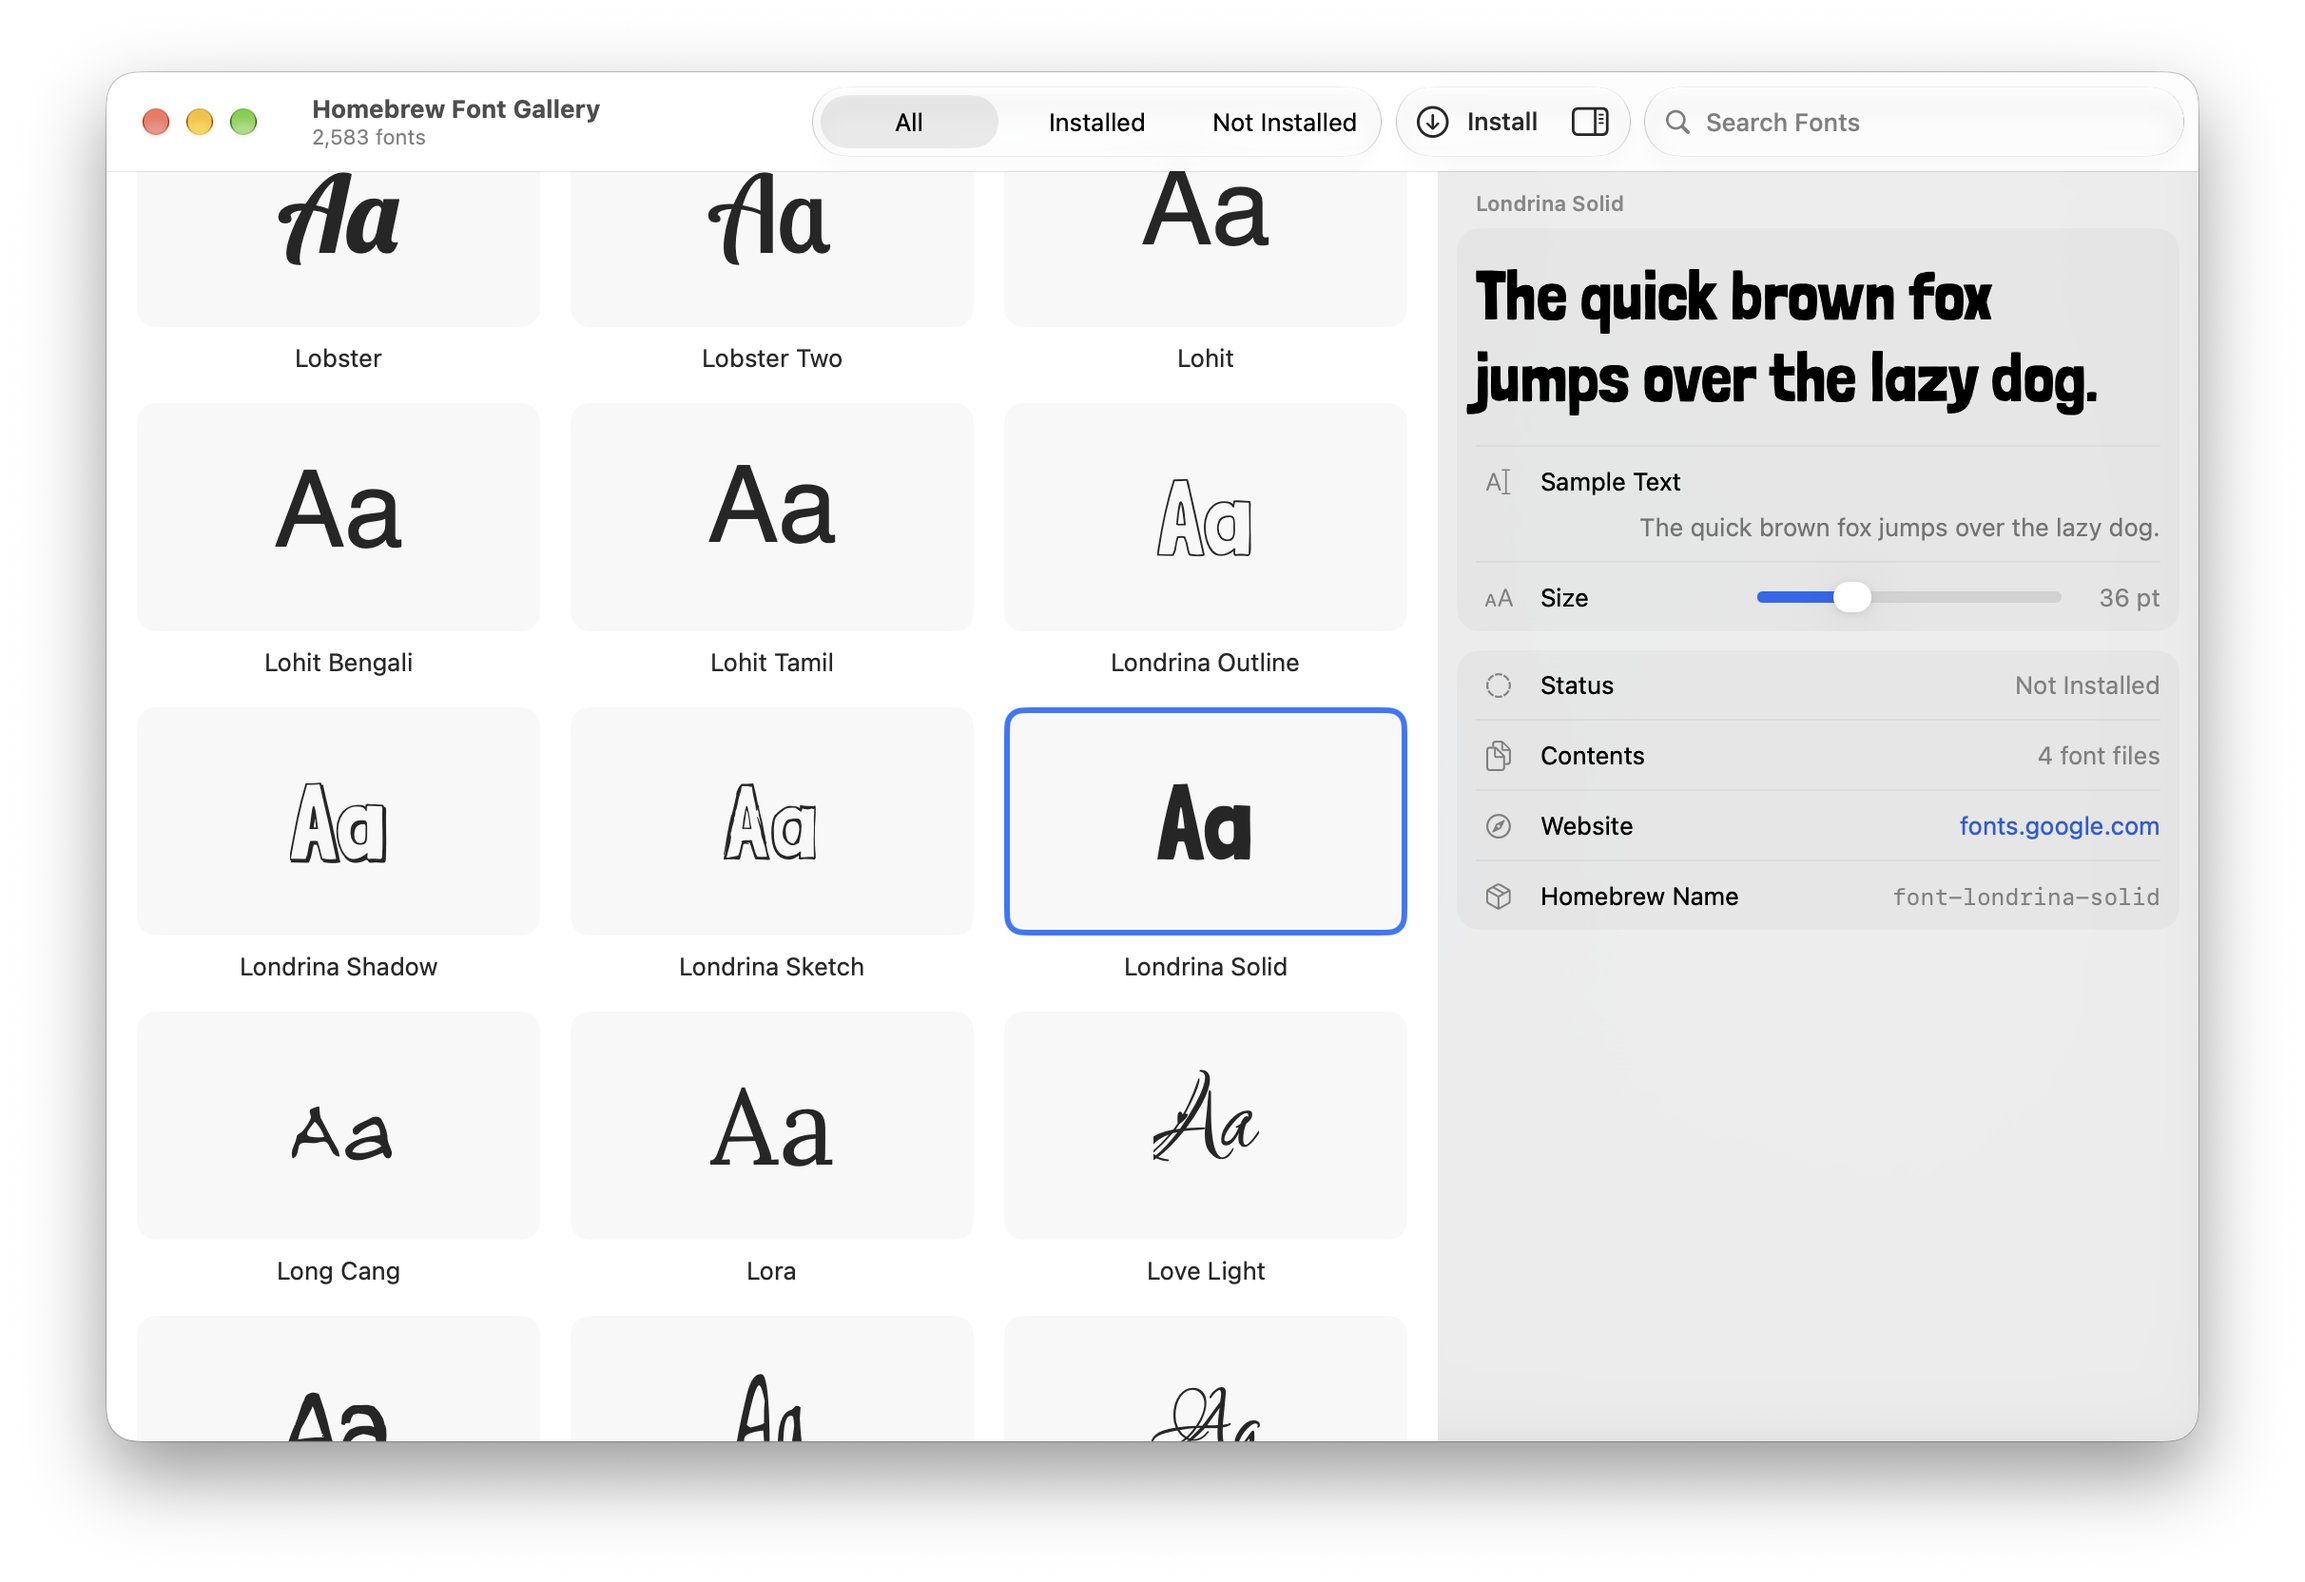
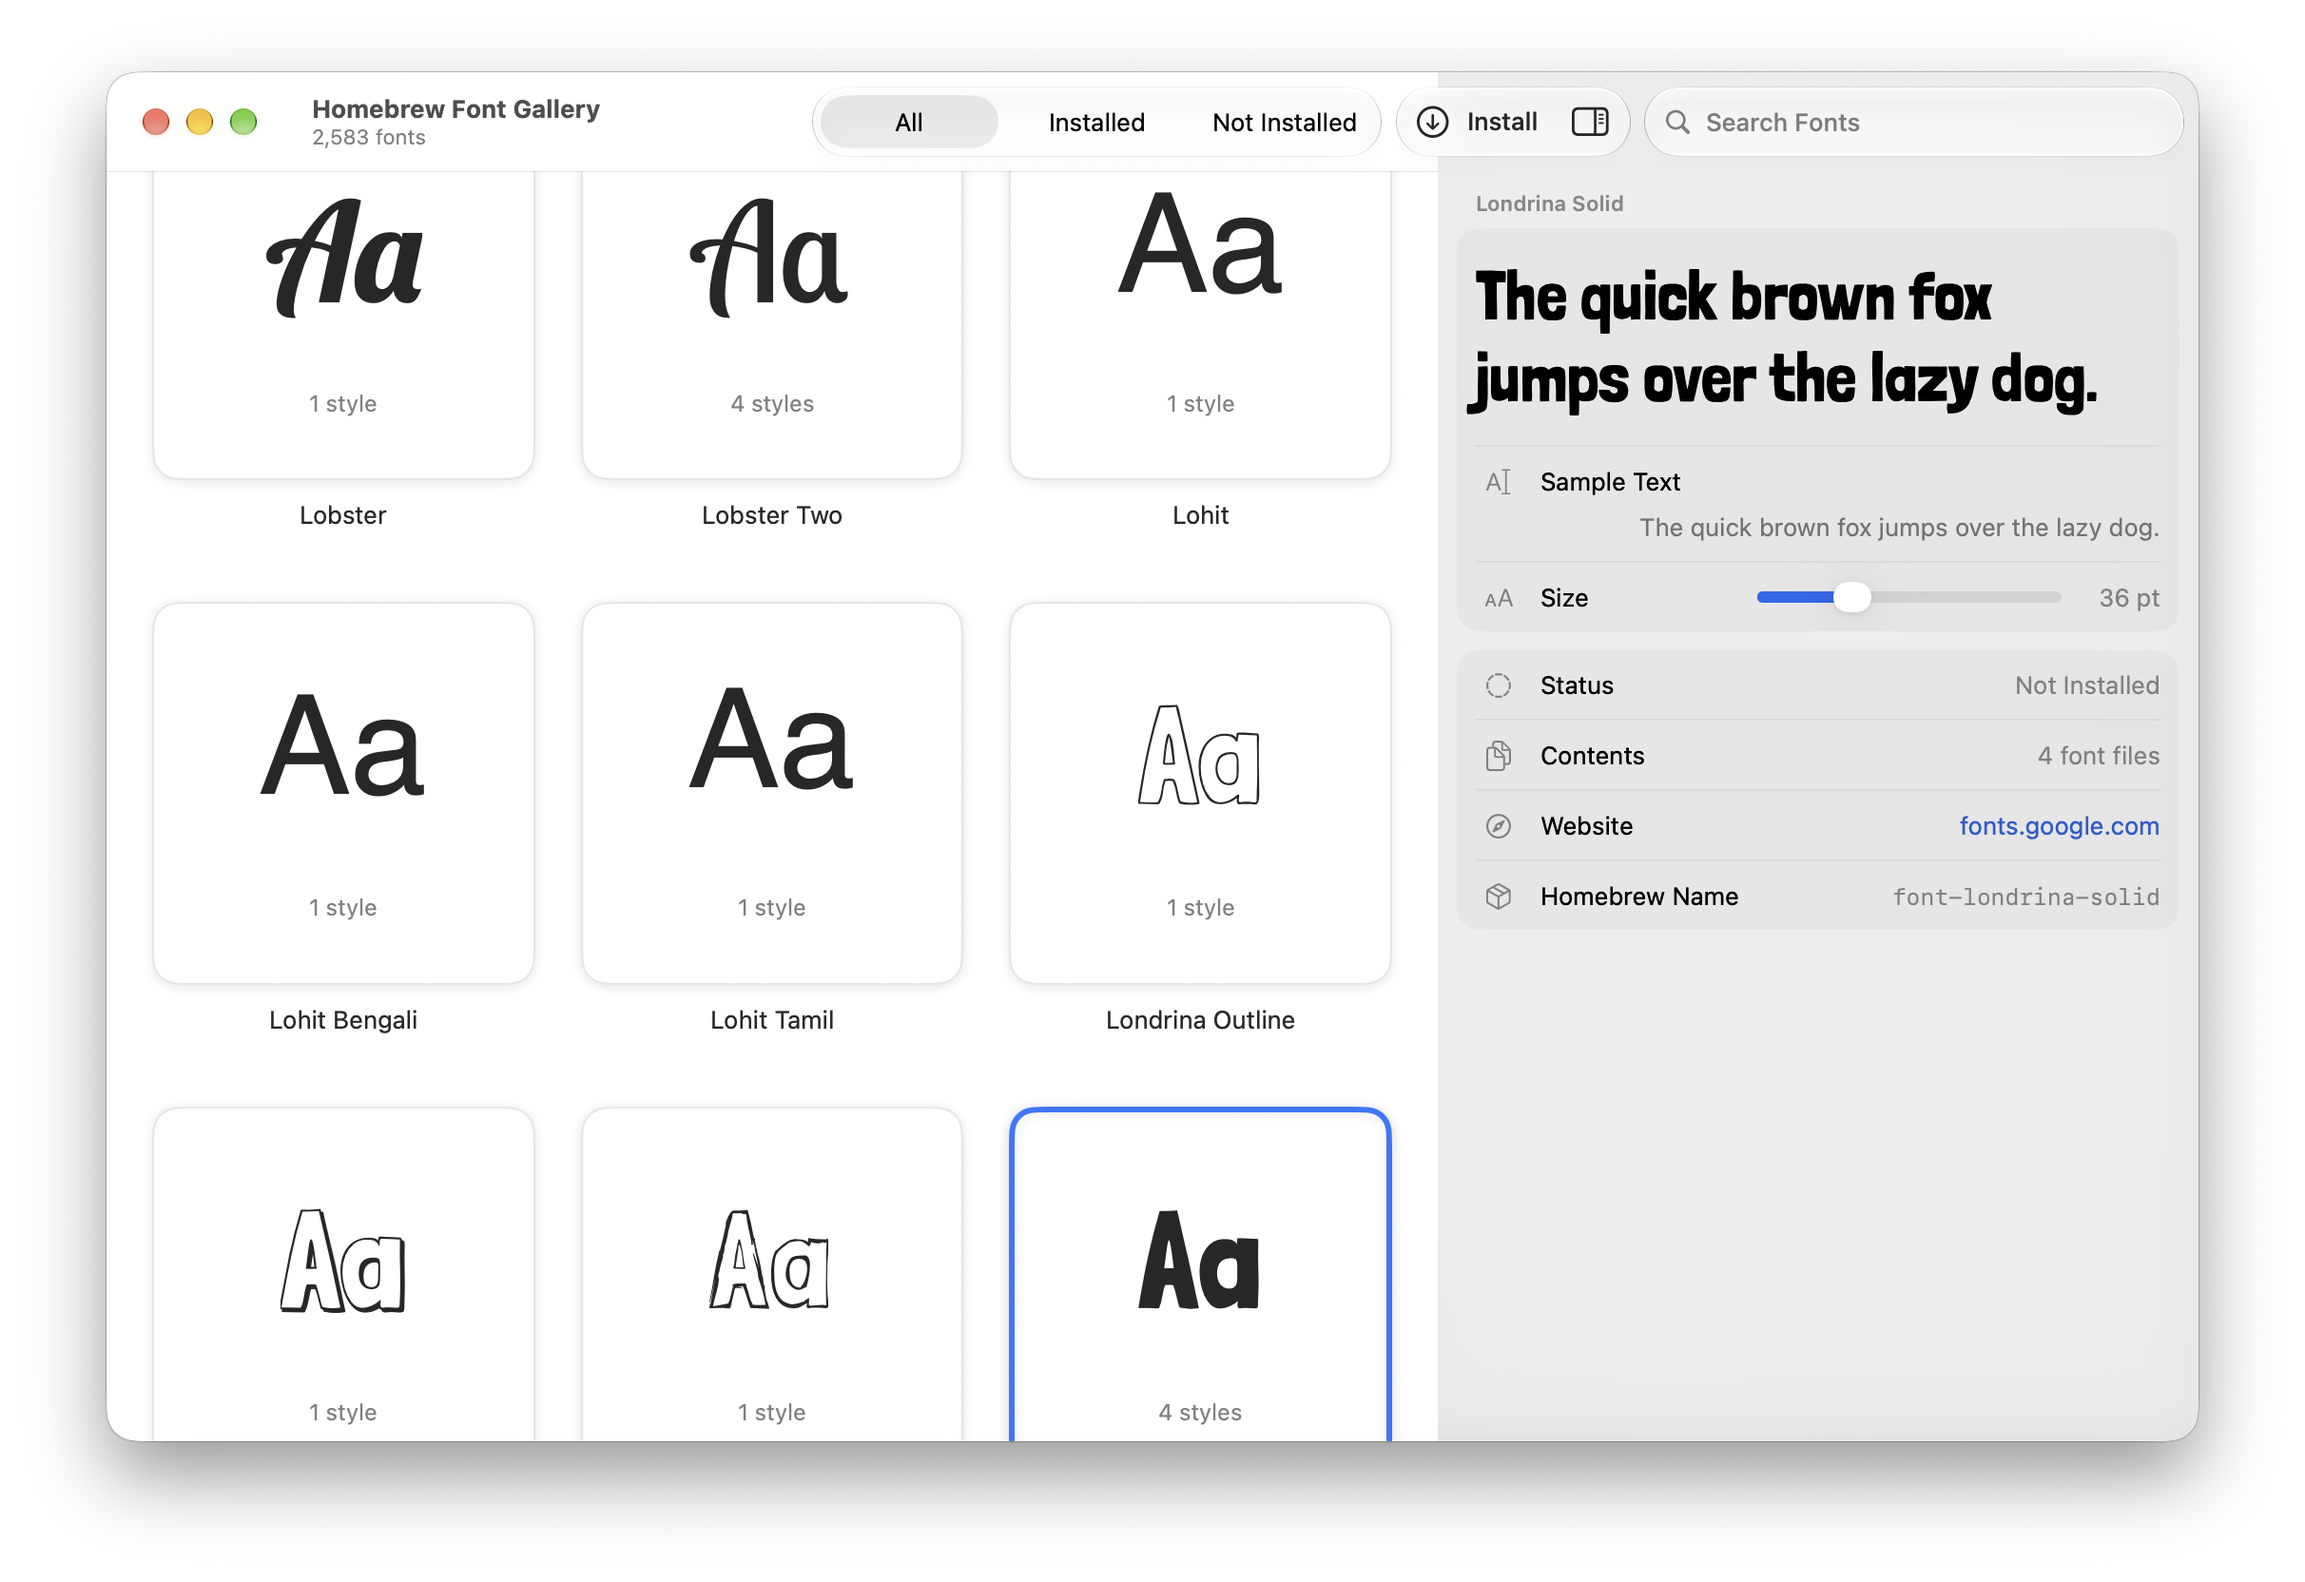
Style the grid's thumbnails as cards, like Font Book
Each font is a square white card with the sample in the middle and the
number of styles along the bottom, and its name below. Cards keep to a
set width, so the grid shows three across beside the details pane and
more when there is room.

diff --git a/HomebrewFontGallery/FontThumbnailView.swift b/HomebrewFontGallery/FontThumbnailView.swift
@@ -10,7 +10,59 @@ struct FontThumbnailView: View {
     @State private var isLoading = true
 
     private static let sample = "Aa"
-    private static let shape = RoundedRectangle(cornerRadius: 10, style: .continuous)
+    private static let shape = RoundedRectangle(cornerRadius: 14, style: .continuous)
+
+    /// A white card with the sample in the middle and the number of styles along the bottom.
+    private var card: some View {
+        GeometryReader { geometry in
+            let side = geometry.size.width
+            ZStack {
+                if let face {
+                    Text(Self.sample)
+                        .font(Font(face.font(size: side * 0.36)))
+                        .lineLimit(1)
+                        .minimumScaleFactor(0.4)
+                        .padding(.horizontal, side * 0.08)
+                } else if isLoading {
+                    ProgressView()
+                        .controlSize(.small)
+                } else {
+                    Image(systemName: "eye.slash")
+                        .font(.system(size: side * 0.18))
+                        .foregroundStyle(.tertiary)
+                        .help("Install this font to preview it.")
+                }
+            }
+            .frame(width: side, height: side * 0.8)
+
+            if let styleCount {
+                Text(styleCount)
+                    .font(.callout)
+                    .foregroundStyle(.secondary)
+                    .lineLimit(1)
+                    .frame(width: side, height: side * 0.2, alignment: .top)
+                    .offset(y: side * 0.76)
+            }
+        }
+        .background(Color(nsColor: .controlBackgroundColor), in: Self.shape)
+        .clipShape(Self.shape)
+        .overlay {
+            if isSelected {
+                Self.shape.strokeBorder(Color.accentColor, lineWidth: 3)
+            } else {
+                Self.shape.strokeBorder(.separator)
+            }
+        }
+        .shadow(color: Color(nsColor: .shadowColor).opacity(0.1), radius: 3, y: 1)
+    }
+
+    private var styleCount: String? {
+        switch font.fontFiles.count {
+        case 0: return nil
+        case 1: return "1 style"
+        default: return "\(font.fontFiles.count) styles"
+        }
+    }
 
     private struct Key: Equatable {
         let token: String
@@ -18,37 +70,14 @@ struct FontThumbnailView: View {
     }
 
     var body: some View {
-        VStack(spacing: 8) {
-            ZStack {
-                Self.shape.fill(.fill.quaternary)
-                if let face {
-                    Text(Self.sample)
-                        .font(Font(face.font(size: 56)))
-                        .lineLimit(1)
-                        .minimumScaleFactor(0.4)
-                        .padding(.horizontal, 12)
-                } else if isLoading {
-                    ProgressView()
-                        .controlSize(.small)
-                } else {
-                    Image(systemName: "eye.slash")
-                        .font(.title)
-                        .foregroundStyle(.tertiary)
-                        .help("Install this font to preview it.")
-                }
-            }
-            .frame(height: 120)
-            .clipShape(Self.shape)
-            .overlay {
-                if isSelected {
-                    Self.shape.strokeBorder(Color.accentColor, lineWidth: 3)
-                }
-            }
+        VStack(spacing: 10) {
+            card
+                .aspectRatio(1, contentMode: .fit)
 
-            HStack(spacing: 4) {
+            HStack(alignment: .firstTextBaseline, spacing: 4) {
                 Text(font.name)
-                    .lineLimit(1)
-                    .truncationMode(.tail)
+                    .multilineTextAlignment(.center)
+                    .lineLimit(2)
                 if isBusy {
                     ProgressView()
                         .controlSize(.mini)
@@ -59,6 +88,8 @@ struct FontThumbnailView: View {
                 }
             }
             .padding(.horizontal, 4)
+            // Room for two lines, so every row of cards lines up.
+            .frame(minHeight: 34, alignment: .top)
         }
         .contentShape(Rectangle())
         .task(id: Key(token: font.token, installedVersion: font.installedVersion)) {

diff --git a/HomebrewFontGallery/ContentView.swift b/HomebrewFontGallery/ContentView.swift
@@ -5,6 +5,7 @@ struct ContentView: View {
     @State private var confirmingUninstall: FontCask?
     @State private var confirmingCancel = false
     @State private var detailsHidden = false
+    @State private var columnCount = 3
     /// The font that was selected when the app was last used.
     @AppStorage("selectedFont") private var lastSelection = ""
 
@@ -128,13 +129,21 @@ struct ContentView: View {
 
     // MARK: Grid
 
-    private static let columnCount = 3
+    /// Cards keep to this width, so there are three across beside the details pane in a
+    /// window of the default size, and more when the window is wider or the pane is hidden.
+    private static let cardWidth: ClosedRange<CGFloat> = 170...230
+    private static let cardSpacing: CGFloat = 24
+
+    /// How many cards an adaptive grid fits across the given width.
+    static func columnCount(forWidth width: CGFloat) -> Int {
+        max(1, Int((width + cardSpacing) / (cardWidth.lowerBound + cardSpacing)))
+    }
 
     private var grid: some View {
         let fonts = model.visibleFonts
         return ScrollViewReader { proxy in
             ScrollView {
-                LazyVGrid(columns: Array(repeating: GridItem(.flexible(), spacing: 16), count: Self.columnCount), spacing: 16) {
+                LazyVGrid(columns: [GridItem(.adaptive(minimum: Self.cardWidth.lowerBound, maximum: Self.cardWidth.upperBound), spacing: 24)], spacing: 20) {
                     ForEach(fonts) { font in
                         Button {
                             model.selection = font.token
@@ -149,7 +158,14 @@ struct ContentView: View {
                         .id(font.token)
                     }
                 }
-                .padding()
+                .padding(24)
+                .background {
+                    GeometryReader { geometry in
+                        Color.clear.onChange(of: geometry.size.width, initial: true) { _, width in
+                            columnCount = Self.columnCount(forWidth: width - 48)
+                        }
+                    }
+                }
             }
             .focusable()
             .focusEffectDisabled()
@@ -162,7 +178,13 @@ struct ContentView: View {
             .onAppear {
                 // Bring the restored selection into view once the grid has its thumbnails.
                 guard let selection = model.selection ?? (lastSelection.isEmpty ? nil : lastSelection) else { return }
-                Task { proxy.scrollTo(selection, anchor: .center) }
+                Task {
+                    // The grid only estimates where a far-off card is, so the first jump can land
+                    // short. A second one, once the cards near it exist, lands on it.
+                    proxy.scrollTo(selection, anchor: .center)
+                    try? await Task.sleep(for: .milliseconds(300))
+                    proxy.scrollTo(selection, anchor: .center)
+                }
             }
             .overlay {
                 if fonts.isEmpty {
@@ -188,8 +210,8 @@ struct ContentView: View {
         switch direction {
         case .left: step = -1
         case .right: step = 1
-        case .up: step = -Self.columnCount
-        case .down: step = Self.columnCount
+        case .up: step = -columnCount
+        case .down: step = columnCount
         @unknown default: return
         }
         let target = current + step
